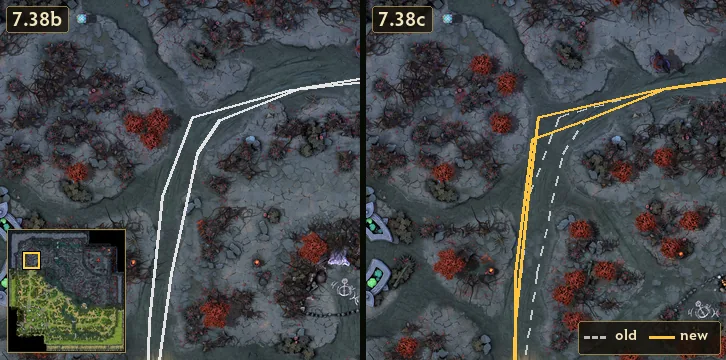
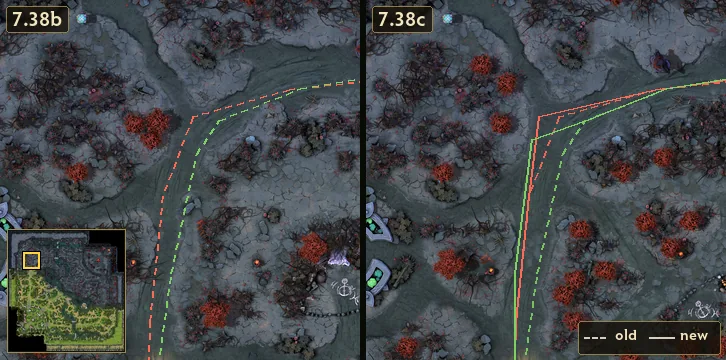
fix: lane creep cards link their unit pages; team-colour lane shots; Facets row in line
- unit_header(page=...): a lane creep's card in General Updates links ../units/<page>.html and gets the
  patch strip (7.41 Flagbearer / Siege, 7.40 Melee / Flagbearer); the generator writes page=, a test makes
  every lane creep card link.
- Lane path pictures: the teams' colours again, old paths dashed, new solid, thinner, the old / new key kept
  (7.41, 7.40_21, 7.38c_9).
- li(major=True) is only bolder and brighter — no rule, same size and line as the other rows.
- 7.41 siege creep timings: the "?" says there was only one extra siege creep before (at 35:00, since 7.22).
- Owner's tag decisions in TAG_OVERRIDES: Mars Dauntless BUFF, BKB Avatar BUFF, Rubick Spell Steal NEW.

diff --git a/styles.css b/styles.css
@@ -4398,10 +4398,10 @@ ul.changes li > .row-tag-empty {
 ul.changes li > .row-text {
   grid-column: 1;
 }
-/* The change that sums up a patch (li(major=True), 7.41 "Facets removed from the game"): a bigger, brighter row
-   with a gold rule under it, so it doesn't read like one more line; its tag stays (filters, weights). */
-ul.changes li.li-major { padding: 6px 0 9px; margin-bottom: 6px; border-bottom: 1px solid rgba(227, 196, 106, 0.28); }
-ul.changes li.li-major > .row-text { font-size: 16px; font-weight: 600; color: var(--text-bright); letter-spacing: 0.2px; }
+/* The change that sums up a patch (li(major=True), 7.41 "Facets removed from the game"): only bolder and brighter —
+   same size, padding and line as the other rows, so its tag stays in line (owner 2026-10-16: the rule and the
+   bigger text put it out of line); its tag stays (filters, weights). */
+ul.changes li.li-major > .row-text { font-weight: 700; color: var(--text-bright); }
 ul.changes li > .row-text::before {
   content: "";
   float: left;

diff --git a/scripts/gen/terrain_shots.py b/scripts/gen/terrain_shots.py
@@ -298,22 +298,25 @@ def spot_patch(spot, patch):
     return spot[2] if len(spot) > 2 else patch
 
 
-# old path white, new path gold — not the teams' green / red (owner 2026-10-16: "непонятно, где старая, а где
-# новая, т.к 2 цвета используется"); the side is plain from the minimap
-LANE_OLD, LANE_NEW = (240, 240, 240, 235), (255, 196, 64, 255)
+# the teams' colours (Radiant green, Dire red), old = dashed, new = solid, thin lines (owner 2026-10-16: white / gold
+# lost the sides and read too thick — "основные красные/зелёные и пунктирные красные/зелёные"; the old / new key stays)
+LANE_RGB = {"good": (126, 208, 96), "bad": (255, 106, 84)}
+LANE_KEY = (232, 226, 210, 230)          # the key's sample lines: neutral, they show dashed vs solid only
 
 
 def _lanes(img, cx, cy, r, diff, side, half, width):
     """The lane creep paths of one side (2026-10-06, the owner: "where are the screenshots?" for 7.38c "The Top Lane
-    creep paths have been slightly adjusted"): the old map shows the old paths white; the new map the new paths gold
-    over the old ones as a white dashed ghost (dashed = "where it was"), with an old / new key in its corner."""
+    creep paths have been slightly adjusted"): each team in its colour, the old paths dashed (on the old map, and as a
+    lighter ghost under the new paths on the new map), the new paths solid; an old / new key in the new half."""
     d = ImageDraw.Draw(img, "RGBA")
     k = half / (2 * r)
+    w = max(1, width - 1)
+    dash = (6 * w, 3 * w)
 
     def px(p):
         return (p[0] - (cx - r)) * k, ((cy + r) - p[1]) * k
 
-    def poly(points, colour, w, dash):
+    def poly(points, colour, dash):
         xy = [px(p) for p in points]
         for (x0, y0), (x1, y1) in zip(xy, xy[1:]):
             if not dash:
@@ -328,22 +331,20 @@ def _lanes(img, cx, cy, r, diff, side, half, width):
                        fill=colour, width=w)
                 t += step
     lanes = (diff or {}).get("lanes") or {}
-    if side == "old":
-        for p in lanes.get("old", []):
-            poly(p["points"], LANE_OLD, width, None)
-        return
     for p in lanes.get("old", []):
-        poly(p["points"], LANE_OLD[:3] + (190,), max(1, width - 1), (6 * width, 3 * width))
+        poly(p["points"], LANE_RGB[p["team"]] + ((255,) if side == "old" else (230,)), dash)
+    if side == "old":
+        return
     for p in lanes.get("new", []):
-        poly(p["points"], LANE_NEW, width, None)
-    _lane_key(d, half, width)
+        poly(p["points"], LANE_RGB[p["team"]] + (255,), None)
+    _lane_key(d, half, w)
 
 
 def _lane_key(d, half, width):
     """"— old  — new" in the new half's bottom-right corner, on a dark plate like the version label."""
     font = ImageFont.truetype(os.path.join(_ROOT, "src", "fonts", "radiance-semibold.otf"), max(11, half // 24))
     pad, seg = max(4, half // 60), max(14, half // 14)
-    items = [("old", LANE_OLD[:3] + (190,), True), ("new", LANE_NEW, False)]
+    items = [("old", LANE_KEY, True), ("new", LANE_KEY, False)]
     tw = sum(seg + pad + d.textlength(t, font=font) + 2 * pad for t, _c, _d in items)
     h = font.size + 2 * pad
     x0, y0 = half - tw - 2 * pad, half - h - 2 * pad

diff --git a/patch/elements.py b/patch/elements.py
@@ -434,14 +434,15 @@ def _slugify(name):
     return s
 
 
-def _register_entity(kind, name, force=False):
+def _register_entity(kind, name, force=False, slug=None):
     """force=True: tracked even inside General Updates (map units with their own Changes
-    page: Roshan, Tormentor)."""
+    page: Roshan, Tormentor). slug: the page's own slug when it isn't the name's (a lane creep's card,
+    "Flagbearer Creep" -> creep-goodguys-flagbearer)."""
     if _State.current_section_slug == 'general' and not force:
         _State.current_entity_key = None
         _State.current_entity_display = None
         return ''
-    slug = _slugify(name)
+    slug = slug or _slugify(name)
     key = f"{kind}|{slug}"
     _State.current_entity_key = key
     _State.current_ability_kv = None
@@ -496,7 +497,7 @@ def hero_header(name):
 </div>'''
 
 
-def unit_header(name, icon_url, kind=None, new=False, label=None, general=True, new_mech=None, track=False):
+def unit_header(name, icon_url, kind=None, new=False, label=None, general=True, new_mech=None, track=False, page=None):
     """`new="New Neutral Creep"` renders the same NEW-entity block as
     item_header(new=...): is-new block + type label after the name. Pair it
     with new_stats([...]) for the stat sheet and t("NEW") ability rows (the
@@ -515,7 +516,9 @@ def unit_header(name, icon_url, kind=None, new=False, label=None, general=True, 
     _State.next_ul_is_hero_stats = (not new) and general   # a NEW unit shows a stat sheet instead
     kind_attr = f' data-kind="{kind}"' if kind else ''
     entity_kind = "creep-hero" if (kind and kind.lower().startswith("creep-hero")) else "unit"
-    eid = _register_entity(entity_kind, name, force=track)
+    # page="creep-goodguys-flagbearer": a lane creep's card in General Updates links to its unit page and gets the
+    # patch strip, like any tracked unit (owner 2026-10-16: "Flagbearer Creep и Siege Creep не кликабельны")
+    eid = _register_entity(entity_kind, name, force=track or bool(page), slug=page)
     if new:
         type_text = new if isinstance(new, str) else ''
         type_label = f' <span class="entity-new-type">{type_text}</span>' if type_text else ''
@@ -529,7 +532,7 @@ def unit_header(name, icon_url, kind=None, new=False, label=None, general=True, 
     _State.new_mech_tag = _mech_tag(new_mech)
     img = f'<img src="{icon_url}" alt="{name}" loading="lazy" width="128" height="72">'
     if eid:          # a tracked unit has a Changes page (units/<slug>.html; a creep-hero lives with the heroes)
-        href = _entity_link("heroes" if entity_kind == "creep-hero" else "units", name)
+        href = _entity_link("heroes" if entity_kind == "creep-hero" else "units", page or name)
         img = f'<a class="entity-link" href="{href}">{img}</a>'
         name_html = f'<a class="entity-link" href="{href}">{name}</a>'
     else:            # General Updates (Roshan, Tormentor…): no dynamics id, no page

diff --git a/tests/test_general_regroup.py b/tests/test_general_regroup.py
@@ -31,10 +31,29 @@ def test_topics_become_subgroups_and_the_lead_a_major_row():
     assert out[s + 2:s + 4] == [INNATE, UI]
     assert out[l + 2] == MEET                                           # a row about several creeps
     f = out.index('W(unit_header("Flagbearer Creep", "../icons/units/npc_dota_creep_goodguys_flagbearer.png", '
-                  'general=False))')
+                  'general=False, page="creep-goodguys-flagbearer"))')
     assert out[f + 2].startswith('W(li("Experience Bounty increased from 57 to 60"')   # its name prefix goes
     assert l < f and any(x.startswith('W(unit_header("Siege Creep"') for x in out[f:])   # cards after the subgroups
     assert 'W(ul_open())\nW(ul_close())' not in "\n".join(out)          # emptied blocks are gone
+
+
+def test_lane_creep_cards_link_their_unit_pages():
+    """Owner 2026-10-16: a creep card must be clickable, as a rule — the generator gives it page=, and every lane
+    creep card in content/ has it (patch/elements.unit_header links ../units/<page>.html and adds the patch strip)."""
+    import glob
+    import re
+    out = g._general_topics(LANES, "Global Changes")
+    cards = [l for l in out if l.startswith("W(unit_header(")]
+    assert cards and all('page="' in c for c in cards)
+    names = {n for n, _icon in g._LANE_CARDS.values()}
+    root = os.path.dirname(os.path.dirname(os.path.abspath(__file__)))
+    bad = []
+    for path in glob.glob(os.path.join(root, "content", "p*.py")):
+        for n, line in enumerate(open(path, encoding="utf-8"), 1):
+            m = re.search(r'W\(unit_header\("([^"]+)"', line)
+            if m and m.group(1) in names and "page=" not in line:
+                bad.append(f"{os.path.basename(path)}:{n}")
+    assert not bad, bad
 
 
 def test_first_and_second_rows_become_one():

diff --git a/content/p741.py b/content/p741.py
@@ -39,14 +39,15 @@ def build():
              "Now offlane creeps are slightly slowed upon leaving the base for a couple of seconds. Safe lane creeps are slightly accelerated upon leaving the base for a couple of seconds. Both of these changes are effective until the 7:30 mark."
          ), also_dyn=['unit|creep-goodguys-melee', 'unit|creep-goodguys-ranged', 'unit|creep-goodguys-flagbearer']))
     W(ul_close())
-    W(unit_header("Flagbearer Creep", "../icons/units/npc_dota_creep_goodguys_flagbearer.png", general=False))
+    W(unit_header("Flagbearer Creep", "../icons/units/npc_dota_creep_goodguys_flagbearer.png", general=False, page="creep-goodguys-flagbearer"))
     W(ul_open())
     W(li("Experience Bounty increased from 57 to 60", b(57, 60), also_dyn=['unit|creep-goodguys-flagbearer']))
     W(ul_close())
-    W(unit_header("Siege Creep", "../icons/units/npc_dota_goodguys_siege.png", general=False))
+    W(unit_header("Siege Creep", "../icons/units/npc_dota_goodguys_siege.png", general=False, page="goodguys-siege"))
     W(ul_open())
     # Valve's two timing rows as one (owner 2026-10-16; generator _merge_ordinal_pair); a clock time: REWORK, no %
     W(li("First +1 siege creep timing decreased from 35:00 to 30:00, second now occurs at 60:00", t("REWORK"),
+         extra=inline_note("Before 7.41 a wave got only one extra siege creep, at 35:00 (since 7.22: \"Siege creeps now spawn two units at 35 minutes instead of 30 minutes\"). The second extra one is new."),
          also_dyn=['unit|goodguys-siege']))
     W(ul_close())
 

diff --git a/generate_patch_code_v2.py b/generate_patch_code_v2.py
@@ -543,6 +543,10 @@ TAG_OVERRIDES = {
     "moved from tier":              "REWORK",  # tier-change is a structural move, not a buff/nerf
     "dormant curio increases":      "NEW",     # first-ever curio upgrade on an item = new capability
     "destroys the target illusion": "NERF",    # Spectre Reality (7.40): the swapped illusion is lost (audit 2026-10-03)
+    # owner 2026-10-16 (7.41 review): the effect decides, not the phrase template
+    "when determining if mars is outnumbered": "BUFF",   # Dauntless: allies no longer offset enemies -> regen more often
+    "stolen spells now have their cooldown":   "NEW",    # Spell Steal: a new property in place of the debuff amp
+    "avatar duration changed from 9/8/7/6s":   "BUFF",   # BKB: the duration now stops at 7s, not 6s
 }
 
 
@@ -1177,7 +1181,10 @@ def _general_topics(lines, title=""):
     for key in _LANE_CARDS:
         if key in cards:
             name, icon = _LANE_CARDS[key]
-            out += [f'W(unit_header("{name}", "../icons/units/{icon}.png", general=False))', 'W(ul_open())']
+            # page=: the card links to the creep's unit page and gets its patch strip (owner 2026-10-16: "should be
+            # clickable, as a rule")
+            out += [f'W(unit_header("{name}", "../icons/units/{icon}.png", general=False, page="{key.split("|")[1]}"))',
+                    'W(ul_open())']
             out += _merge_ordinal_pair(cards[key]) + ['W(ul_close())']
     return out
 

diff --git a/content/p740.py b/content/p740.py
@@ -59,11 +59,11 @@ def build():
          extra=inline_note("Previously inherited the hero's full vision (typically 1800 daytime / 800 nighttime)")))
     W(ul_close())
     # each lane creep's rows under its card, as units elsewhere (owner 2026-10-16; generator _general_topics)
-    W(unit_header("Melee Creep", "../icons/units/npc_dota_creep_goodguys_melee.png", general=False))
+    W(unit_header("Melee Creep", "../icons/units/npc_dota_creep_goodguys_melee.png", general=False, page="creep-goodguys-melee"))
     W(ul_open())
     W(li("Gold Bounty now increases by 1 per lane creep upgrade interval (every 7:30)", t("NEW"), also_dyn=['unit|creep-goodguys-melee']))
     W(ul_close())
-    W(unit_header("Flagbearer Creep", "../icons/units/npc_dota_creep_goodguys_flagbearer.png", general=False))
+    W(unit_header("Flagbearer Creep", "../icons/units/npc_dota_creep_goodguys_flagbearer.png", general=False, page="creep-goodguys-flagbearer"))
     W(ul_open())
     W(li("Gold Bounty now increases by 1 per lane creep upgrade interval", t("NEW"), also_dyn=['unit|creep-goodguys-flagbearer']))
     W(li("AoE Bounty Radius increased from 1200 to 1500", b(1200, 1500), also_dyn=['unit|creep-goodguys-flagbearer']))

diff --git a/docs/agent-rules/patch-tags.md b/docs/agent-rules/patch-tags.md
@@ -289,8 +289,10 @@ HTML-escape тултип через `_html.escape(text, quote=True)`. CSS `.ench
 - **Раздел, где все строки REWORK** (кроме QoL/NEW, минимум 3), описывает переделанную механику: `plain_header(..., new="Reworked mechanic")`. Строки REWORK становятся описанием, подсказка про Alt (QoL) остаётся изменением. Под Map Objectives метка «Reworked objective».
 - **Несколько строк в «?» — это список:** `info_tip` сам рисует золотой кружок на каждой строке, строка `&nbsp;&nbsp;– x` становится подпунктом. Одна строка остаётся обычным текстом. Работает на всём сайте, в контенте ничего менять не нужно.
 - **Два «?» в конце одной строки → один** (2026-10-09, Earth Spirit 7.40: `note_box` «Now it's 25» + `inline_note` «Damage at level 1…»): `li()` склеивает их (`merge_tips`), заметки идут частями `.pop-part` через тонкую линию. Тест `tests/test_merge_tips.py`. *Почему:* два «?» подряд выглядят как ошибка.
-- **General раскладывается по темам** (2026-10-16, 7.41 Global Changes: строки про врождённые, течения и лайн крипов стояли вперемешку). Генератор `_general_topics`: тема с двумя строками и больше получает свой подраздел в конце — «Scaling with Hero Level» (per level / hero level / innate abilities), «Lane Creeps» (строки, которым `_link_lane_creeps` дал `also_dyn` на лайн крипа); строки без темы и одиночные остаются сверху. Строка про ОДНОГО лайн крипа идёт под его карточку (`unit_header`, как у юнитов: Melee / Ranged / Flagbearer / Siege Creep, префикс имени снимается), в «Lane Creeps» остаются общие (точка встречи). «<X> removed from the game» (7.41 Facets) — выделенная строка `li(…, major=True)`: крупнее, ярче, золотая черта снизу, тег DEL остаётся (фильтр, веса); вводной фразой без тега было тускло и терялся DEL (владелец 2026-10-16). Разделы карты (Map / Terrain / Objectives) не трогаются: там порядок Valve. Поправлены 7.41 и 7.40. Тест `tests/test_general_regroup.py`.
+- **General раскладывается по темам** (2026-10-16, 7.41 Global Changes: строки про врождённые, течения и лайн крипов стояли вперемешку). Генератор `_general_topics`: тема с двумя строками и больше получает свой подраздел в конце — «Scaling with Hero Level» (per level / hero level / innate abilities), «Lane Creeps» (строки, которым `_link_lane_creeps` дал `also_dyn` на лайн крипа); строки без темы и одиночные остаются сверху. Строка про ОДНОГО лайн крипа идёт под его карточку (`unit_header(..., page="creep-goodguys-flagbearer")`, как у юнитов: Melee / Ranged / Flagbearer / Siege Creep, префикс имени снимается; **карточка всегда кликабельна** — `page=` ведёт на страницу юнита и даёт полосу патчей, тест `test_lane_creep_cards_link_their_unit_pages`), в «Lane Creeps» остаются общие (точка встречи). «<X> removed from the game» (7.41 Facets) — выделенная строка `li(…, major=True)`: только жирнее и ярче, размер, отступы и линия как у соседних строк (черта и крупный шрифт сбивали её с ряда), тег DEL остаётся (фильтр, веса); вводной фразой без тега было тускло и терялся DEL (владелец 2026-10-16). Выделяется ТОЛЬКО такая фраза — убрана целая система; «самое большое» по весам не выбираем. Разделы карты (Map / Terrain / Objectives) не трогаются: там порядок Valve. Поправлены 7.41 и 7.40. Тест `tests/test_general_regroup.py`.
 - **«First <X> …» + «Second <X> …» — одна строка** «First <X> …, second …» (2026-10-16, 7.41 таймеры осадных крипов; `_merge_ordinal_pair`, тег и ссылки первой строки).
+- **Раньше-не-было — в «?»** (2026-10-16): «second now occurs at 60:00» не говорит, как было; в «?» — что до 7.41 добавка была одна, на 35:00 (с 7.22). Если строка Valve называет только новое значение, найти старое (патчноуты, файлы игры) и вписать в «?».
+- **Решения владельца по тегам 7.41** (2026-10-16, `TAG_OVERRIDES`): Mars Dauntless «no longer considers allies… outnumbered» — BUFF (реген включается чаще); BKB «Avatar duration changed from 9/8/7/6s to 9/8/7s» — BUFF (минимум 7 с вместо 6); Rubick «Stolen spells now have their cooldown decreased» — NEW (новое свойство вместо усиления дебаффов).
 - **Таймер на игровых часах «… timing now occurs at 60:00» — REWORK**, как и пара «… timing decreased from 35:00 to 30:00» (канон): иначе NEW вставал выше и порядок «First → Second» ломался.
 - **Уточняющая фраза Valve «All <тот же предмет> …» — в «?» строки выше** (2026-10-16: «Innate abilities no longer scale…» + «All innate abilities that used to scale… now either provide unchangeable bonuses…» → одна строка). Генератор: `_merge_all_followup`; своя заметка второй строки идёт следом в тот же «?».
 - **Точка встречи лайн крипов — со снимком** (2026-10-16): в `data/terrain_spots.json` у 7.41 «Adjusted the meeting point of the lane creeps» — четыре кадра путей сложных линий (`show: ["lanes"]`; пути в файле карты 7.41 сдвинулись), слова «lane creeps» открывают снимки. Сама скорость крипов в файле карты не записана — на снимке пути, не скорость. Так же «All sections of currents …» — два кадра ручьёв, где зоны +100 стали +150 (`show: ["currents"]`, `scripts/gen/terrain_shots._currents`, цвета слоя течений Terrain).

diff --git a/docs/terrain.md b/docs/terrain.md
@@ -411,10 +411,11 @@ Tools → Source Filmmaker, `tools/sfm.dll`) renders leamare's look:
   `data-tiles-old/-new`; scripts.js `updateTiles` (fullscreen only, after zoom/pan) lays the tiles in view over each
   picture — the old ones next to `.tc-old`, the new ones inside the clipped `.tc-new-layer` — once a picture pixel
   would be drawn bigger than a screen pixel. Pages' 1 GB limit: tiles for the site's maps only.
-- **Lane paths on the micro-screenshots: old white, new gold (2026-10-16)** — the owner: "in the line screenshots
-  it's unclear which is old and which is new, two colours are used" (the teams' green / red). Now the old map shows
-  the old paths white, the new map the new paths gold over the old ones as a white dashed ghost, with an "old / new"
-  key in its corner (`terrain_shots._lanes`, `_lane_key`). Current zones draw in the Currents layer's blues
+- **Lane paths on the micro-screenshots: dashed = old, solid = new (2026-10-16)** — the owner: "in the line
+  screenshots it's unclear which is old and which is new"; white / gold lost the sides and read too thick, so: each
+  team in its colour (Radiant green, Dire red), the old paths dashed (the old map; a ghost under the new paths on the
+  new map), the new paths solid, thin lines, an "old / new" key in the new half's corner (`terrain_shots._lanes`,
+  `_lane_key`). Current zones draw in the Currents layer's blues
   (`_currents`: +150 deep, +100 pale). Re-rendering a whole patch rewrites pictures an older script made too —
   keep only the ones the change is about (7.38c_9, 7.40_21 on 10-16).
 - **Terrain notes with micro-screenshots (2026-10-03)** — the owner: the terrain rows were "all under one tag, mush —
